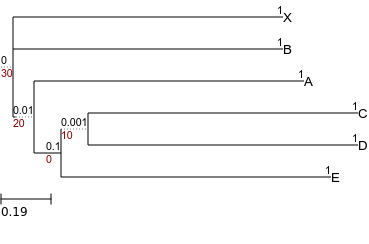
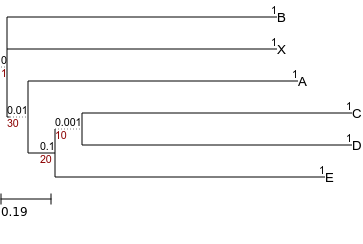
updated dendropy code

diff --git a/test_dendropy.py b/test_dendropy.py
@@ -1,13 +1,33 @@
 #! /usr/bin/env python
 
 from dendropy import Tree, TaxonNamespace
-tree_str = '((C,D)10,(A,(B,X)30)20,E)0;'
 
-tree = Tree.get(file=open('test.nw'), schema="newick")
+def node_label_method(tree, outgroup):
+    '''Do not interpret node labels as branch support values'''    
+    outgroup_node = tree.find_node_with_taxon_label(outgroup)
+    new_root = outgroup_node.parent_node
+    tree.reseed_at(new_root)
+    return tree
 
+def rooted_bipartition_method(tree, outgroup):
+    '''Interpret node labels as branch support values, do they
+    are remapped to branches when tree outgroup changes.'''
 
-#mrca = tree.find_node_with_taxon_label("X")
-#tree.reroot_at_edge(mrca.edge, update_bipartitions=False)
-outgroup_node = tree.find_node_with_taxon_label("X")
-tree.to_outgroup_position(outgroup_node, update_bipartitions=False)
-print(tree.as_string(schema='newick').strip())
+    benc = tree.encode_bipartitions()
+    support_values = {}
+    for nd in tree:
+        support_values[nd.bipartition] = float(nd.label) if nd.label is not None else 1.0
+
+    outgroup_node = tree.find_node_with_taxon_label(outgroup)
+    new_root = outgroup_node.parent_node
+    tree.reseed_at(new_root)
+    tree.encode_bipartitions()
+    for nd in tree:
+        nd.label = support_values.get(nd.bipartition, "not_specified")
+    tree.seed_node.edge.length = None
+    return tree
+
+tree = Tree.get(file=open('test.nw'), schema="newick")#, rooting="force-rooted")
+rooted_bipartition_method(tree, 'X')
+nw = tree.as_string(schema='newick').strip()
+print nw.replace('[&R] ', '')

diff --git a/README.md b/README.md
@@ -20,12 +20,28 @@ PyCogent 1.5.3
 ## Tree after rooting to X
 ### test_ete3.py
 ```
+#! /usr/bin/python
+
+from ete3 import Tree
+t = Tree('test.nw')
+t.set_outgroup(t & "X")
+print t.write()
+```
+```
 test_ete3.py
 (X:0.5,(B:1,(A:1,((C:1,D:1)10:0.001,E:1)20:0.1)30:0.01)1:0.5);
 
 ```
 ![test_ete3.py](https://github.com/jhcepas/test_branch_support_after_tree_rerooting/blob/master/test_ete3.py.png)
 ### test_ete2.py
+```
+#! /usr/bin/python
+
+from ete2 import Tree
+t = Tree('test.nw')
+t.set_outgroup(t & "X")
+print t.write()
+```
 ```
 test_ete2.py
 (X:0.5,(B:1,(A:1,((C:1,D:1)10:0.001,E:1)20:0.1)30:0.01)1:0.5);
@@ -34,12 +50,51 @@ test_ete2.py
 ![test_ete2.py](https://github.com/jhcepas/test_branch_support_after_tree_rerooting/blob/master/test_ete2.py.png)
 ### test_dendropy.py
 ```
+#! /usr/bin/env python
+
+from dendropy import Tree, TaxonNamespace
+
+def node_label_method(tree, outgroup):
+    '''Do not interpret node labels as branch support values'''    
+    outgroup_node = tree.find_node_with_taxon_label(outgroup)
+    new_root = outgroup_node.parent_node
+    tree.reseed_at(new_root)
+    return tree
+
+def rooted_bipartition_method(tree, outgroup):
+    '''Interpret node labels as branch support values, do they
+    are remapped to branches when tree outgroup changes.'''
+
+    benc = tree.encode_bipartitions()
+    support_values = {}
+    for nd in tree:
+        support_values[nd.bipartition] = float(nd.label) if nd.label is not None else 1.0
+
+    outgroup_node = tree.find_node_with_taxon_label(outgroup)
+    new_root = outgroup_node.parent_node
+    tree.reseed_at(new_root)
+    tree.encode_bipartitions()
+    for nd in tree:
+        nd.label = support_values.get(nd.bipartition, "not_specified")
+    tree.seed_node.edge.length = None
+    return tree
+
+tree = Tree.get(file=open('test.nw'), schema="newick")#, rooting="force-rooted")
+rooted_bipartition_method(tree, 'X')
+nw = tree.as_string(schema='newick').strip()
+print nw.replace('[&R] ', '')
+```
+```
 test_dendropy.py
-(X:1.0,B:1.0,(A:1.0,((C:1.0,D:1.0)10:0.001,E:1.0)0:0.1)20:0.01)30:0.0;
+(B:1.0,X:1.0,(A:1.0,((C:1.0,D:1.0)10.0:0.001,E:1.0)20.0:0.1)30.0:0.01);
 
 ```
 ![test_dendropy.py](https://github.com/jhcepas/test_branch_support_after_tree_rerooting/blob/master/test_dendropy.py.png)
 ### test_ape.sh
+```
+#! /bin/bash
+R --quiet --vanilla < test_ape.R |grep "\[1\]"|cut -f2 -d " "|cut -f2 -d '"' 
+```
 ```
 test_ape.sh
 ((((C:1,D:1)10:0.001,E:1)0:0.1,A:1)20:0.01,B:1,X:1)30;
@@ -48,12 +103,27 @@ test_ape.sh
 ![test_ape.sh](https://github.com/jhcepas/test_branch_support_after_tree_rerooting/blob/master/test_ape.sh.png)
 ### test_newick_utilities.sh
 ```
+#! /bin/bash 
+./nw_reroot test.nw X
+```
+```
 test_newick_utilities.sh
 (X:0.5,(B:1.0,(A:1.0,((C:1.0,D:1.0)10:0.001,E:1.0)0:0.1)20:0.01)30:0.5);
 
 ```
 ![test_newick_utilities.sh](https://github.com/jhcepas/test_branch_support_after_tree_rerooting/blob/master/test_newick_utilities.sh.png)
 ### test_biopython.py
+```
+#! /usr/bin/env python
+
+import sys
+from Bio import Phylo
+trees = Phylo.parse('test.nw','newick')
+t = trees.next()
+t.root_with_outgroup('X')
+Phylo.write(t, sys.stdout, 'newick')
+
+```
 ```
 test_biopython.py
 (((((C:1.00000,D:1.00000)10.00:0.00100,E:1.00000)0.00:0.10000,A:1.00000)20.00:0.01000,B:1.00000)30.00:1.00000,X:0.00000):0.00000;
@@ -62,11 +132,25 @@ test_biopython.py
 ![test_biopython.py](https://github.com/jhcepas/test_branch_support_after_tree_rerooting/blob/master/test_biopython.py.png)
 ### test_bioperl.sh
 ```
+#!/bin/sh
+
+# Fixes the newick output of bioperl so it can be read by ete
+./test_bioperl.pl |sed  's/)X/,X:0)/g'
+```
+```
 test_bioperl.sh
 ((B:1.0,(A:1.0,((C:1.0,D:1.0)10:0.001,E:1.0)0:0.1)20:0.01)30:1,X:0);
 ```
 ![test_bioperl.sh](https://github.com/jhcepas/test_branch_support_after_tree_rerooting/blob/master/test_bioperl.sh.png)
 ### test_pycogent.py
+```
+#!/usr/bin/env python
+
+from cogent import LoadTree
+tr = LoadTree('test.nw')
+print tr.rootedWithTip("X")
+
+```
 ```
 test_pycogent.py
 (B:1.0,X:1.0,(A:1.0,((C:1.0,D:1.0)10:0.001,E:1.0)20:0.1)30:0.01);
